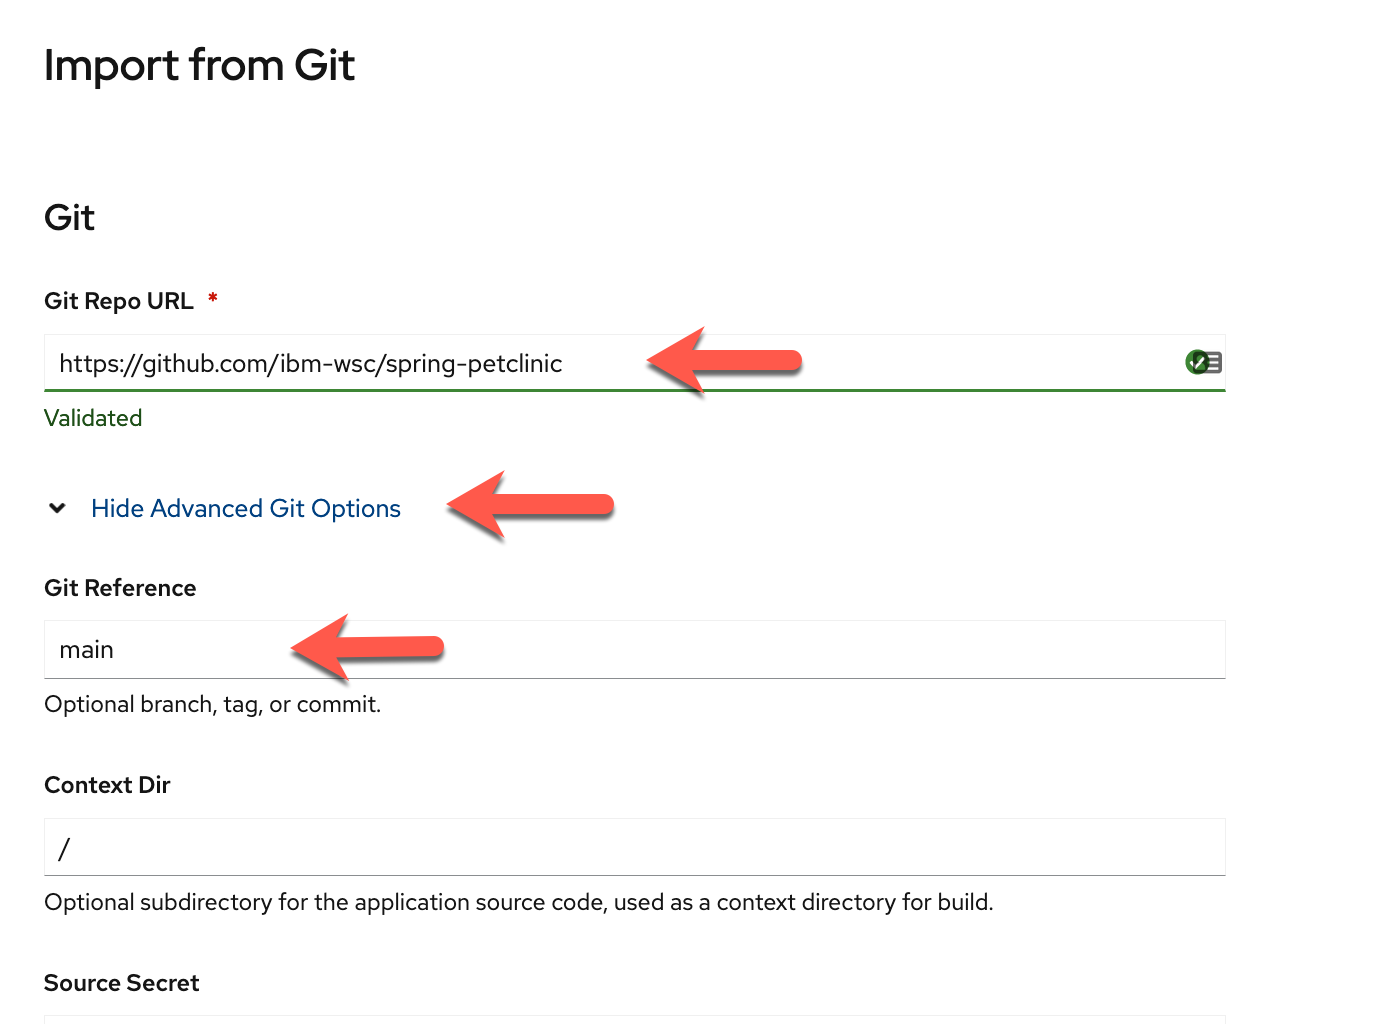
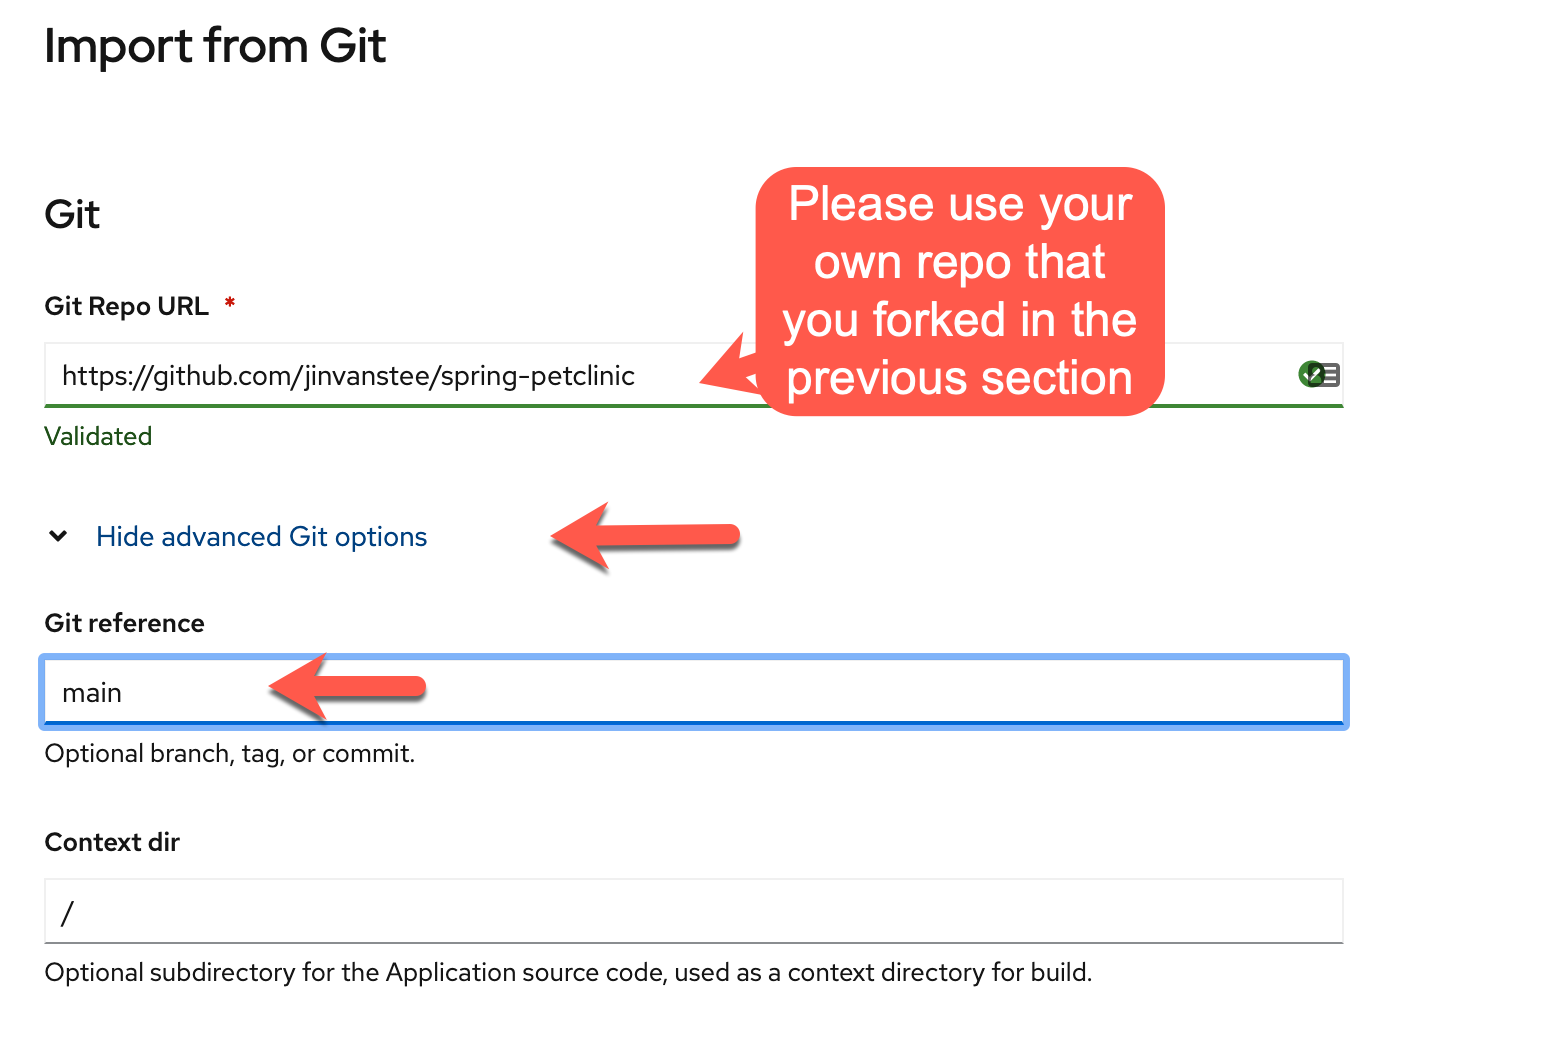
upandrunning updates

diff --git a/docs/build-and-deploy/upandrunning.md b/docs/build-and-deploy/upandrunning.md
@@ -1,10 +1,16 @@
-# Getting your PetClinic Open with a Shift (Title Placeholder for something less cheesy)
+# Getting Your PetClinic Up and Running
 
 For this workshop we will be using the iconic Spring PetClinic application. The Spring PetClinic is a sample application designed to show how the Spring stack can be used to build simple, but powerful database-oriented applications. [The official version of PetClinic](https://github.com/spring-projects/spring-petclinic) demonstrates the use of Spring Boot with Spring MVC and Spring Data JPA. 
 
-For this workshop, we will not be focusing on the ins and outs of the PetClinic application itself, but rather on leveraging OpenShift tooling to build a PetClinic cloud-native application and a DevOps pipeline for the application.
+We will not be focusing on the ins and outs of the PetClinic application itself, but rather on leveraging OpenShift tooling to build a PetClinic cloud-native application and a DevOps pipeline for the application.
 
 We will start by building our PetClinic application from the source code and connecting it to a MySQL database.
+
+!!! info
+    Because you are using the LinuxONE Community Cloud OpenShift trial, your project name will be different from the project name depicted in the diagrams below. You will be operating in your assigned project for the entirety of the lab.
+
+!!! note
+    For this lab the green arrows or boxes denote something to look at, the red arrows or boxes denote something to click on or type.
 
 ## Deploying MySQL database
 
@@ -30,22 +36,43 @@ Again, we are using the **Ephemeral** implementation because this a short-lived 
 
 In a production system, you will most likely be using a permanent MySQL instance. This stores the data in a Persistent Volume (basically a virtual hard drive), meaning the MySQL pod can be destroyed and replaced with the data remaining intact.
 
-A minute or two later, in the `Topology` view of your OpenShift Console, you should see `mysql` in running state.
+A minute or two later, in the `Topology` view of your OpenShift Console, you should see `mysql` in running state. (Click on the Topology icon for `mysql` to bring up the side panel)
 
 ![DB running](upandrunningimages/mysqlrunning.png)
 
 ## Fork the PetClinic repo to your own GitHub account
-### Place holder 
+
+For this workshop, you will be using the PetClinic application from your own GitHub account so that you can enable integrations with it later. 
+
+To make a copy of the PetClinic application into your GitHub account, navigate to the following from your browser:
+
+```https://github.com/ibm-wsc/spring-petclinic```
+
+Then click on the `fork` button on the upper right corner.
+
+![repofork](upandrunningimages/gitrepofork.png)
+
+At this point you might need to log into GitHub if you weren't logged in already.
+
+Next, you might be presented with a screen to ask you to select where to fork to. Select your own user account to fork to.
+
+![reposelect](upandrunningimages/forkselection.png)
+
+Please make a note of your repo URL for later, it should be something like:
+
+```https://github.com/<your-github-username>/spring-petclinic```
+
+That's it! You are ready to move on to the next section.
 
 ## Building and Deploying PetClinic Application
 
-There are multiple ways OpenShift enables cloud-native application developers to package up their applications and deploy them. For PetClinic, we will be building our application image from source, leveraging OpenShift's S2I (Source to Image) capability. This allows us to quickly test the building, packaging, and deployment of our application, and gives us the option to create a DevOps pipeline from this workflow. It's a good way to start to  understand how OpenShift Pipelines work.
+There are multiple ways OpenShift enables cloud-native application developers to package up their applications and deploy them. For PetClinic, we will be building our application image from source, leveraging OpenShift's S2I (Source to Image) capability. This allows us to quickly test the building, packaging, and deployment of our application, and gives us the option to create and use a DevOps pipeline from this workflow. It's a good way to start to understand how OpenShift Pipelines work.
 
 **1.** Start with choosing Add From Git:
 
 ![from git](upandrunningimages/fromgit.png)
 
-**2.** Enter `https://github.com/ibm-wsc/spring-petclinic` in the `Git Repo URL` field. Expand the `Show Advanced Git Options` section, and type in `main` for the `Git Reference`. This tells OpenShift which GitHub repo and branch to pull the source code from.
+**2.** Enter `https://github.com/<your-github-ID>/spring-petclinic` in the `Git Repo URL` field. Expand the `Show Advanced Git Options` section, and type in `main` for the `Git Reference`. This tells OpenShift which GitHub repo and branch to pull the source code from.
 
 ![git url](upandrunningimages/giturl.png)
 
@@ -69,29 +96,34 @@ There are multiple ways OpenShift enables cloud-native application developers to
 
 ![routing options](upandrunningimages/routingpanel.png)
 
-**8.** Finally, we need to pass a build environment variable to tell the build process to run the application unit tests before building the application image. By default, the `OpenJ9` builder image skips the tests during the build process, but we want to automatically run the tests as part of our build pipeline to ensure its validity. Scroll to the bottom and select the `Build Configuration` link to expand that section.
+**8.** You are done with configurations of this panel. Scroll all the way down and hit the `Create` button which will kick off the pipeline build of your PetClinic application. In a few seconds you will see your Topology with the new application icon. Hit the little pipeline icon in the diagram below to view the build logs.
 
-![build link](upandrunningimages/buildconfiglink.png)
+![pipeline icon](upandrunningimages/pipelineicon.png)
 
-**9.** Now, enter the following environment variable as shown in the diagram: ```MAVEN_ARGS=-e -Dcom.redhat.xpaas.repo.redhatga```
+!!! note
+    PLEASE BEWARE that if you are using the LinuxONE Community Cloud OpenShift Trial you might see lagginess with the log streaming. If it stops streaming you might want to go back out to the Topology view and once the pipeline completes, come back to the log view to see the logs.
 
-![build env](upandrunningimages/buildenv.png)
+**9.** The pipeline will go through three tasks:
+    
+&nbsp;&nbsp;&nbsp; 1. <b>fetch-repository</b> - this will clone your Git PetClinic repo for the build task.
 
-**10.** Finally, you are done with setting up the build. Hit the `Create` button to start your build and deploy process.
+&nbsp;&nbsp;&nbsp; 2. <b>build</b> - this is the build process which itself is broken down into a few sub-steps. This is the longest task in the pipeline, and can take up to 15 minutes. The steps that it goes through are as follows:
 
-**11.** You will now be taken back to the Topology view. After a few seconds you should see the icon for build look like the following diagram, and you should then at this point click on the circle.
+&nbsp;&nbsp;&nbsp;&nbsp;&nbsp;&nbsp; STEP-GEN-ENV-FILE: this step generates the environment file to be used during the build process
 
-![build running](upandrunningimages/buildrunning.png)
+&nbsp;&nbsp;&nbsp;&nbsp;&nbsp;&nbsp; STEP-GENERATE: this step generates the Dockerfile that will be used to create the OCI image later on during the build step
 
-**12.** You will now be taken into the Logs section of your build, where you should begin to see the logs streaming from the progress of your build. Towards the end, you should see log messages similar to the following diagram, letting you know that the tests have all passed (39 unit tests are run, with 1 skipped, 0 failed). Please note, the logs will be easier to view if you Expand them.
+&nbsp;&nbsp;&nbsp;&nbsp;&nbsp;&nbsp; STEP-BUILD: this is the multi-step build process of creating an OCI image. It will download the required Maven Java packages, compile the Java application, run through a set of 39 unit tests on the application, and finally build the application jar file and the OCI image. If the tests fail, this step will not complete.
 
-![test output](upandrunningimages/sampletestoutput.png)
+&nbsp;&nbsp;&nbsp;&nbsp;&nbsp;&nbsp; STEP-PUSH: this last step pushes the built OCI image to the OpenShift image registry.
 
-**13.** The build will take several minutes to run. In the end, after the unit tests have been successfully run, you should see success messages that indicate a successful build, and push to the image registry.
+&nbsp;&nbsp;&nbsp; 3. <b>deploy</b> - this will deploy the newly built image as a running deployment in your project. After this, your application will be running in a pod and be accessible via a route.
+
+Below is an image of the log of a successful build task: 
 
 ![build output](upandrunningimages/buildlog.png)
 
-**14.** Now if you go back to the Topology view, you should see the application has been successfully deployed to OpenShift as well. From here you can click on the `open URL` circle, and a new browser tab should open to lead you to your PetClinic's front page.
+**10.** Now if you go back to the Topology view, you should see the application has been successfully deployed to OpenShift as well. From here you can click on the `open URL` circle, and a new browser tab should open to lead you to your PetClinic's front page.
 
 ![open URL](upandrunningimages/openurl.png)
 
@@ -107,7 +139,11 @@ In this section, you will add a new owner to the Pet Clinic application, and the
 
 ![add owner](upandrunningimages/addowner.png)
 
-**3.** Now let's check the MySQL database to make sure that the new owner you just added is in there.
+**3.** You can then go back to `Find Owners` and try searching for the owner that you just added. It should come back with the search results similar to the following.
+
+![search results](upandrunningimages/searchresults.png)
+
+**4.** Now let's check the MySQL database to make sure that the new owner you just added is in there.
 
 Return to your OpenShift console, from the Topology view, click on the `mysql` icon. This will bring up a side panel, and then click on the `mysql` pod (your pod name will be different than the picture):
 
